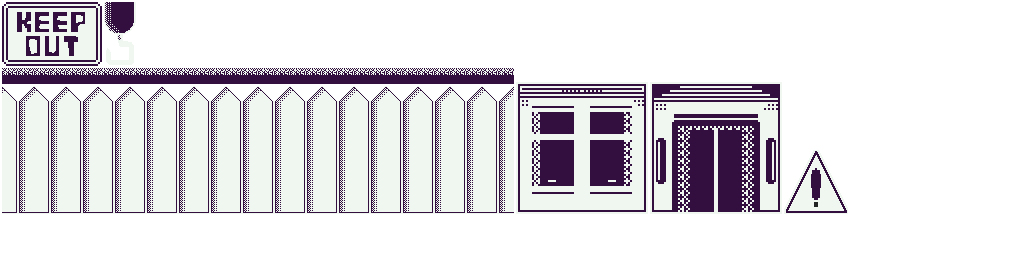
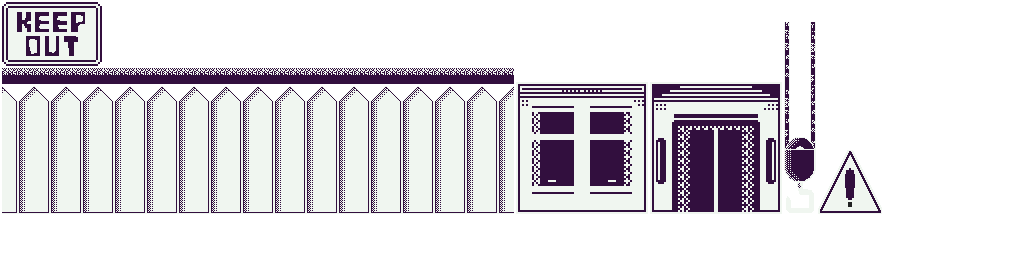
Integrated crane

diff --git a/core/src/com/wxxtfxrmx/towers/level/ui/LevelController.kt b/core/src/com/wxxtfxrmx/towers/level/ui/LevelController.kt
@@ -6,15 +6,15 @@ import com.badlogic.gdx.physics.box2d.Body
 import com.badlogic.gdx.physics.box2d.BodyDef
 import com.badlogic.gdx.physics.box2d.PolygonShape
 import com.badlogic.gdx.physics.box2d.World
+import com.badlogic.gdx.physics.box2d.joints.RevoluteJoint
+import com.badlogic.gdx.physics.box2d.joints.RevoluteJointDef
 import com.badlogic.gdx.utils.viewport.Viewport
 import com.wxxtfxrmx.towers.common.*
 import com.wxxtfxrmx.towers.level.box2d.FloorContactListener
 import com.wxxtfxrmx.towers.level.box2d.PendulumSimulation
-import com.wxxtfxrmx.towers.level.model.Block
-import com.wxxtfxrmx.towers.level.model.Environment
-import com.wxxtfxrmx.towers.level.model.Model
-import com.wxxtfxrmx.towers.level.model.TowersTexture
+import com.wxxtfxrmx.towers.level.model.*
 import com.wxxtfxrmx.towers.level.ui.camera.CameraUpdater
+import kotlin.experimental.or
 
 class LevelController(
         private val world: World,
@@ -24,12 +24,11 @@ class LevelController(
 
     private val bodyBuilder = BodyBuilder(world)
     private val boundsCalculator = Body2DBoundsCalculator()
-    private val cameraUpdater = CameraUpdater(viewport)
 
     private var bodyCollisionCallback: (() -> Model)? = null
     private var suspendedModel: Model? = null
 
-    private val pendulumSimulation = PendulumSimulation(viewport)
+    private val pendulumSimulation: PendulumSimulation
 
     private val removedBodiesQueue = mutableListOf<Model>()
     private val models = mutableListOf<Model>()
@@ -37,15 +36,56 @@ class LevelController(
 
     private var isWorldEnabled = true
 
+    private val craneModel: Model
+    private val cameraUpdater: CameraUpdater
+
     init {
         val floorContactListener = FloorContactListener()
         floorContactListener.setOnContactBeginListener(::onBodiesCollide)
         world.setContactListener(floorContactListener)
-        models.add(foundationEntity(TowersTexture.FOUNDATION))
+        val foundationEntity = foundationEntity(TowersTexture.FOUNDATION, isAwake = false)
+        models.add(foundationEntity)
         models.add(groundEntities())
         models.add(fenceEntities())
         models.add(keepOutSignEntity())
         models.add(alertEntity())
+
+        craneModel = craneModel()
+        pendulumSimulation = PendulumSimulation(viewport, craneModel)
+        pendulumSimulation.model = foundationEntity
+        suspendedModel = foundationEntity
+        models.add(craneModel)
+
+        cameraUpdater = CameraUpdater(viewport, craneModel)
+    }
+
+    private fun craneModel(): Model {
+        val craneTexture = textureAtlas.region(TowersTexture.CRANE)
+
+        val body = bodyBuilder
+                .begin()
+                .body {
+                    position.set(viewport.worldWidth * 0.5f, viewport.worldHeight - craneTexture.halfHeightInMeters)
+                    fixedRotation = true
+                    type = BodyDef.BodyType.StaticBody
+                    awake = false
+                }
+                .fixture {
+                    filter.categoryBits = CollisionFilter.ENVIRONMENT.code
+                    filter.maskBits = CollisionFilter.ENVIRONMENT.code
+                    density = 1f
+                    shape = PolygonShape().apply {
+                        setAsBox(craneTexture.halfWidthInMeters, craneTexture.halfHeightInMeters)
+                    }
+                }
+                .build()
+
+        val sprite = Sprite(craneTexture).apply {
+            setSize(widthInMeters, heightInMeters)
+            setPosition(body.position.x - halfWidthInMeters, body.position.y - halfHeightInMeters)
+        }
+
+        return Environment(body, sprite)
     }
 
     private fun foundationEntity(texture: TowersTexture, isAwake: Boolean = true): Model {
@@ -60,6 +100,8 @@ class LevelController(
                     awake = isAwake
                 }
                 .fixture {
+                    filter.categoryBits = CollisionFilter.BLOCK.code
+                    filter.maskBits = CollisionFilter.BLOCK.code or CollisionFilter.GROUND.code
                     density = 1.0f
                     shape = PolygonShape().apply {
                         setAsBox(towerTexture.halfWidthInMeters, towerTexture.halfHeightInMeters)
@@ -88,6 +130,8 @@ class LevelController(
                     active = false
                 }
                 .fixture {
+                    filter.categoryBits = CollisionFilter.ENVIRONMENT.code
+                    filter.maskBits = CollisionFilter.BLOCK.code or CollisionFilter.GROUND.code
                     density = 0f
                     shape = PolygonShape().apply {
                         setAsBox(fenceTexture.halfWidthInMeters, fenceTexture.halfHeightInMeters)
@@ -115,6 +159,8 @@ class LevelController(
                     active = true
                 }
                 .fixture {
+                    filter.categoryBits = CollisionFilter.GROUND.code
+                    filter.maskBits = CollisionFilter.ENVIRONMENT.code or CollisionFilter.BLOCK.code
                     shape = PolygonShape().apply {
                         setAsBox(groundTexture.halfWidthInMeters, groundTexture.halfHeightInMeters)
                     }

diff --git a/core/src/com/wxxtfxrmx/towers/level/box2d/PendulumSimulation.kt b/core/src/com/wxxtfxrmx/towers/level/box2d/PendulumSimulation.kt
@@ -2,50 +2,48 @@ package com.wxxtfxrmx.towers.level.box2d
 
 import com.badlogic.gdx.math.Vector2
 import com.badlogic.gdx.utils.viewport.Viewport
+import com.wxxtfxrmx.towers.common.halfHeightInMeters
 import com.wxxtfxrmx.towers.common.heightInMeters
-import com.wxxtfxrmx.towers.common.widthInMeters
+import com.wxxtfxrmx.towers.common.topBoundY
 import com.wxxtfxrmx.towers.level.model.Model
 
 class PendulumSimulation(
         private val viewport: Viewport,
+        private val craneModel: Model,
 ) {
 
-    private val leftPosition = Vector2(0f, viewport.worldHeight)
-    private val rightPosition = Vector2(viewport.worldWidth, viewport.worldHeight)
+    private val leftPosition = Vector2(1f, viewport.camera.topBoundY())
+    private val rightPosition = Vector2(viewport.worldWidth - 1f, viewport.camera.topBoundY())
 
-    private var initialPosition: Vector2? = null
-    private var alpha = 0f
+    private var horizontalAlpha = 0f
+
     private var simulateToLeftSide = true
-
     var model: Model? = null
         set(value) {
-            val width = value?.sprite?.widthInMeters ?: 0f
-            val height = value?.sprite?.heightInMeters ?: 0f
-            leftPosition.set(width, viewport.worldHeight - height)
-            rightPosition.set(viewport.worldWidth - width, viewport.worldHeight - height)
-
             field = value
-            initialPosition = value?.body?.position
-            alpha = 0f
+            value?.body?.position?.set(craneModel.body.position.x, craneModel.body.position.y - craneModel.sprite.heightInMeters)
         }
 
     fun update(delta: Float) {
-        alpha += delta * 0.5f
+        leftPosition.set(1f, viewport.camera.topBoundY())
+        rightPosition.set(viewport.worldWidth - 1f, viewport.camera.topBoundY())
 
-        val position = model?.body?.position?.cpy()
-        position?.lerp(leftPosition, alpha)
-        model?.body?.setTransform(position, 0f)
+        horizontalAlpha += delta * 0.5f
 
         val destination = if (simulateToLeftSide) leftPosition else rightPosition
 
-        val movedPosition = initialPosition?.cpy()?.lerp(destination, alpha)
-        model?.body?.setTransform(movedPosition, 0f)
+        val cranePosition = craneModel.body.position
+        val movedPosition = cranePosition.cpy().lerp(destination, horizontalAlpha)
+        craneModel.body.setTransform(movedPosition, craneModel.body.angle)
 
-        val isLeftReached = model?.body?.position?.epsilonEquals(leftPosition) ?: return
-        val isRightReached = model?.body?.position?.epsilonEquals(rightPosition) ?: return
-        if (alpha >= 1 || isLeftReached || isRightReached) {
+        movedPosition.set(movedPosition.x, movedPosition.y - craneModel.sprite.halfHeightInMeters)
+        model?.body?.setTransform(movedPosition, model?.body?.angle ?: 0f)
+
+        val isLeftReached = craneModel.body.position.epsilonEquals(leftPosition)
+        val isRightReached = craneModel.body.position.epsilonEquals(rightPosition)
+        if (horizontalAlpha >= 1 || isLeftReached || isRightReached) {
             simulateToLeftSide = !simulateToLeftSide
-            alpha = 0f
+            horizontalAlpha = 0f
         }
     }
 }

diff --git a/core/src/com/wxxtfxrmx/towers/level/ui/camera/CameraUpdater.kt b/core/src/com/wxxtfxrmx/towers/level/ui/camera/CameraUpdater.kt
@@ -2,25 +2,29 @@ package com.wxxtfxrmx.towers.level.ui.camera
 
 import com.badlogic.gdx.math.Vector3
 import com.badlogic.gdx.utils.viewport.Viewport
+import com.wxxtfxrmx.towers.level.model.Model
 
 class CameraUpdater(
-        private val viewport: Viewport
+        private val viewport: Viewport,
+        private val craneModel: Model,
 ) {
 
     private var alpha = 0f
     private val targetPosition = Vector3(viewport.camera.position)
 
+
     fun update(delta: Float) {
         val camera = viewport.camera
+        val cameraTopBound = camera.position.y + camera.viewportHeight * 0.5f
 
         if (alpha > 1f) {
             alpha = 0f
         } else {
             camera.position.lerp(targetPosition, alpha)
+            craneModel.body.setTransform(craneModel.body.position.x, cameraTopBound, craneModel.body.angle)
             alpha += delta
         }
 
-        val cameraTopBound = camera.position.y + camera.viewportHeight * 0.5f
         if (alpha == 0f && cameraTopBound != viewport.worldHeight) {
             targetPosition.set(camera.position)
             targetPosition.y += viewport.worldHeight - cameraTopBound

diff --git a/core/src/com/wxxtfxrmx/towers/common/CameraExtensions.kt b/core/src/com/wxxtfxrmx/towers/common/CameraExtensions.kt
@@ -1,0 +1,6 @@
+package com.wxxtfxrmx.towers.common
+
+import com.badlogic.gdx.graphics.Camera
+
+fun Camera.topBoundY() =
+        position.y + viewportHeight * 0.5f

diff --git a/core/src/com/wxxtfxrmx/towers/level/model/CollisionFilter.kt b/core/src/com/wxxtfxrmx/towers/level/model/CollisionFilter.kt
@@ -1,0 +1,7 @@
+package com.wxxtfxrmx.towers.level.model
+
+enum class CollisionFilter(val code: Short) {
+    ENVIRONMENT(1),
+    BLOCK(2),
+    GROUND(3)
+}
